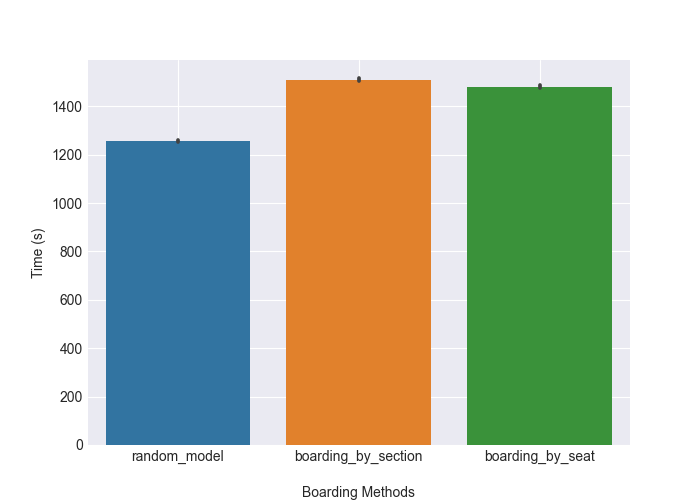
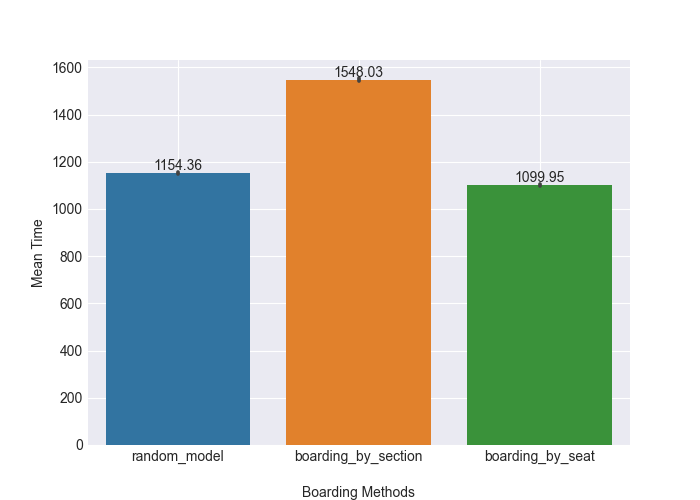
fixed up boarding by seat (it was the wrong file)

diff --git a/models/IMMC_boarding_by_seat_testing.cpp b/models/IMMC_boarding_by_seat_testing.cpp
@@ -17,7 +17,7 @@ int store_time[34];
 
 vector<pair<pair<int, int>, int> > passengers; //first: row, column, second: number of baggages
 
-vector<pair<pair<int, int>, int>> aft_section, middle_section, bow_section;
+vector<pair<pair<int, int>, int>> AF_section, BE_section, CD_section;
 
 
 void next_second() {
@@ -87,85 +87,93 @@ int runModel(default_random_engine rng) {
     memset(simulating_aisle, 0, sizeof(simulating_aisle));
     memset(store_time, 0, sizeof(store_time));
     passengers.clear();
-    aft_section.clear();
-    middle_section.clear();
-    bow_section.clear();
+    AF_section.clear();
+    BE_section.clear();
+    CD_section.clear();
 
-
-    int max_time = 0;
-    for (int k = 1; k <= 3; k++) {
-
+    for (int i = 1; i <= 33; i++) { //random boarding order for people in seat A
         int baggage_num = rand() % 4; //assumption: every passenger will have a random number of baggage from 0 to 3
         int total_time = 0;
         for (int i = 1; i <= baggage_num; i++) {
 
-            total_time += rand() % 11 + 5; //assumption: every baggage will cost 5-15 seconds to be placed
+            total_time += rand() % 11 + 5;; //assumption: every baggage will cost 5-15 seconds to be placed
             //printf("%d\n",cost);
         }
-        airplane[1][k] = total_time;
-        bow_section.push_back(make_pair(make_pair(1, k), total_time));
-        max_time = max(max_time, total_time);
-
+        AF_section.push_back(make_pair(make_pair(i, 1), total_time));
     }
 
-    for (int i = 2; i <= 11; i++) { //from row 2 to end
-        for (int k = 1; k <= 6; k++) {
-            int baggage_num = rand() % 4; //assumption: every passenger will have a random number of baggage from 0 to 6
-            int total_time = 0;
-            for (int j = 1; j <= baggage_num; j++) {
+    for (int i = 2; i <= 33; i++) { //random boarding order for people in seat F
+        int baggage_num = rand() % 4; //assumption: every passenger will have a random number of baggage from 0 to 3
+        int total_time = 0;
+        for (int i = 1; i <= baggage_num; i++) {
 
-                total_time += rand() % 11 + 5; //assumption: every baggage will cost 5-15 seconds to be placed
-                //printf("%d\n",cost);
-            }
-            airplane[i][k] = total_time;
-            bow_section.push_back(make_pair(make_pair(i, k), total_time));
-            max_time = max(max_time, total_time);
+            total_time += rand() % 11 + 5;; //assumption: every baggage will cost 5-15 seconds to be placed
+            //printf("%d\n",cost);
         }
+        AF_section.push_back(make_pair(make_pair(i, 6), total_time));
     }
-    shuffle(bow_section.begin(), bow_section.end(), rng);
 
+    shuffle(AF_section.begin(), AF_section.end(), rng);
 
-    for (int i = 12; i <= 22; i++) { //from row 2 to end
-        for (int k = 1; k <= 6; k++) {
-            int baggage_num = rand() % 4; //assumption: every passenger will have a random number of baggage from 0 to 6
-            int total_time = 0;
-            for (int j = 1; j <= baggage_num; j++) {
+    for (int i = 1; i <= 33; i++) { //random boarding order for people in seat B
+        int baggage_num = rand() % 4; //assumption: every passenger will have a random number of baggage from 0 to 3
+        int total_time = 0;
+        for (int i = 1; i <= baggage_num; i++) {
 
-                total_time += rand() % 11 + 5; //assumption: every baggage will cost 5-15 seconds to be placed
-                //printf("%d\n",cost);
-            }
-            airplane[i][k] = total_time;
-            middle_section.push_back(make_pair(make_pair(i, k), total_time));
-            max_time = max(max_time, total_time);
+            total_time += rand() % 11 + 5;; //assumption: every baggage will cost 5-15 seconds to be placed
+            //printf("%d\n",cost);
         }
+        BE_section.push_back(make_pair(make_pair(i, 2), total_time));
     }
-    shuffle(middle_section.begin(), middle_section.end(), rng);
 
-    for (int i = 23; i <= 33; i++) { //from row 2 to end
-        for (int k = 1; k <= 6; k++) {
-            int baggage_num = rand() % 4; //assumption: every passenger will have a random number of baggage from 0 to 6
-            int total_time = 0;
-            for (int j = 1; j <= baggage_num; j++) {
+    for (int i = 2; i <= 33; i++) { //random boarding order for people in seat E
+        int baggage_num = rand() % 4; //assumption: every passenger will have a random number of baggage from 0 to 3
+        int total_time = 0;
+        for (int i = 1; i <= baggage_num; i++) {
 
-                total_time += rand() % 11 + 5; //assumption: every baggage will cost 5-15 seconds to be placed
-                //printf("%d\n",cost);
-            }
-            airplane[i][k] = total_time;
-            aft_section.push_back(make_pair(make_pair(i, k), total_time));
-            max_time = max(max_time, total_time);
+            total_time += rand() % 11 + 5;; //assumption: every baggage will cost 5-15 seconds to be placed
+            //printf("%d\n",cost);
         }
-    }
-    shuffle(aft_section.begin(), aft_section.end(), rng);
-
-    for (int i = 0; i < aft_section.size(); i++) {
-        passengers.push_back(aft_section[i]);
-    }
-    for (int i = 0; i < middle_section.size(); i++) {
-        passengers.push_back(middle_section[i]);
+        BE_section.push_back(make_pair(make_pair(i, 5), total_time));
     }
 
-    for (int i = 0; i < bow_section.size(); i++) {
-        passengers.push_back(bow_section[i]);
+    shuffle(BE_section.begin(), BE_section.end(), rng);
+
+    for (int i = 1; i <= 33; i++) { //random boarding order for people in seat C
+        int baggage_num = rand() % 4; //assumption: every passenger will have a random number of baggage from 0 to 3
+        int total_time = 0;
+        for (int i = 1; i <= baggage_num; i++) {
+
+            total_time += rand() % 11 + 5;; //assumption: every baggage will cost 5-15 seconds to be placed
+            //printf("%d\n",cost);
+        }
+        CD_section.push_back(make_pair(make_pair(i, 3), total_time));
+    }
+
+
+    for (int i = 2; i <= 33; i++) { //random boarding order for people in seat D
+        int baggage_num = rand() % 4; //assumption: every passenger will have a random number of baggage from 0 to 3
+        int total_time = 0;
+        for (int i = 1; i <= baggage_num; i++) {
+
+            total_time += rand() % 11 + 5;; //assumption: every baggage will cost 5-15 seconds to be placed
+            //printf("%d\n",cost);
+        }
+        CD_section.push_back(make_pair(make_pair(i, 4), total_time));
+    }
+
+    shuffle(CD_section.begin(), CD_section.end(), rng);
+
+    for (int i = 0; i < AF_section.size(); i++) {
+        passengers.push_back(AF_section[i]);
+    }
+
+    for (int i = 0; i < BE_section.size(); i++) {
+        passengers.push_back(BE_section[i]);
+    }
+
+    for (int i = 0; i < CD_section.size(); i++) {
+        passengers.push_back(CD_section[i]);
     }
 
 

diff --git a/IMMC_main_model.cpp b/IMMC_main_model.cpp
@@ -5,8 +5,8 @@
 #include <fstream>
 #include <iostream>
 //#include "models/IMMC_random_model_testing.cpp"
-#include "models/IMMC_boarding_by_section_testing.cpp"
-//#include "models/IMMC_boarding_by_seat_testing.cpp"
+//#include "models/IMMC_boarding_by_section_testing.cpp"
+#include "models/IMMC_boarding_by_seat_testing.cpp"
 
 //Change which file above is included to test different models
 
@@ -30,7 +30,9 @@ int main()
 
     try {
         std::__fs::filesystem::rename("data_output.txt", "../data_output.csv");
-        std::__fs::filesystem::copy("../data_output.csv", "../model_outputs/" + csv);
+        std::ifstream  src("../data_output.csv", std::ios::binary);
+        std::ofstream  dst("../model_outputs/" + csv, std::ios::binary);
+        dst << src.rdbuf();
     } catch (std::__fs::filesystem::filesystem_error& e) {
         std::cout << e.what() << '\n';
     }

diff --git a/generate_bar_graph.py b/generate_bar_graph.py
@@ -6,6 +6,7 @@ model_list = ['random_model', 'boarding_by_section', 'boarding_by_seat']
 iterations = 1000
 
 data_files = [pd.read_csv(f"./model_outputs/{model_name}.csv") for model_name in model_list]
+
 time_df = pd.concat(data_files, ignore_index=True)
 names = []
 for model_name in model_list:
@@ -15,8 +16,9 @@ for model_name in model_list:
 time_df['Method'] = pd.DataFrame(names)
 plt.style.use('seaborn-dark')
 plt.figure(figsize=(7, 5))
-sns.barplot(x='Method', y='Time', data=time_df)
+ax = sns.barplot(x='Method', y='Time', data=time_df)
+ax.bar_label(ax.containers[0])
 plt.xlabel('\nBoarding Methods')
-plt.ylabel('Time (s)')
+plt.ylabel('Mean Time')
 plt.grid()
 plt.show()
